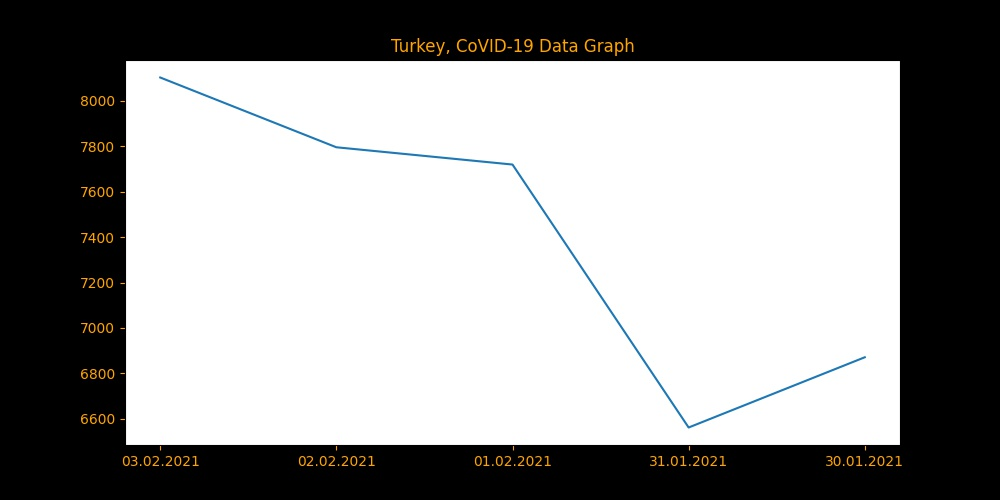
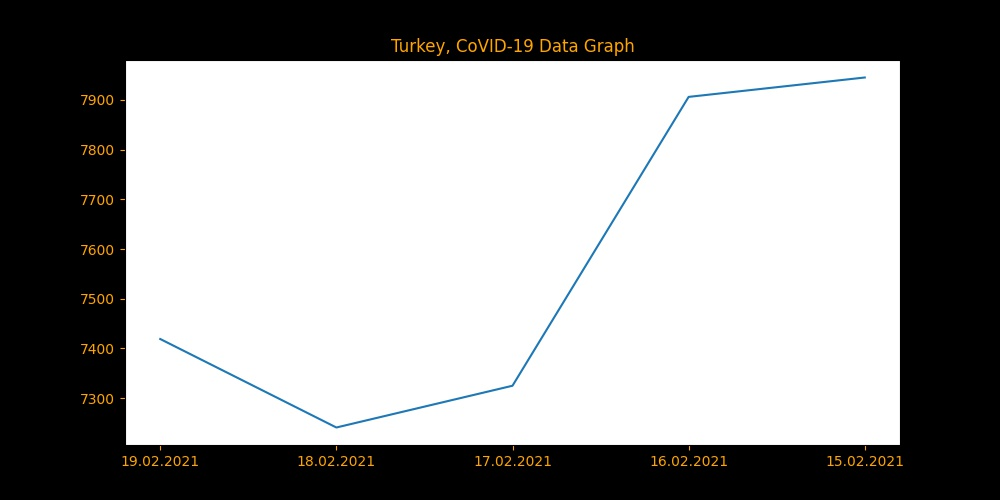
:notebook: 19.02.2021 Update

diff --git a/README_TR.md b/README_TR.md
@@ -11,20 +11,20 @@ Burada, Türkiye'nin [COVID-19 (Koronavirüs) (Hakkında bilgi almak için tıkl
 Not: Bütün veriler, Türkiye Sağlık Bakanlığı'ndan sağlanmaktadır. Eğer veriler güncel değilse, bu büyük ihtimal [devletin web sitesi](https://covid19.saglik.gov.tr) ile alakalıdır. Tamamdır, o zaman başlayalım!
 
 Öncelikle bugünün verileri:
-## :calendar: 03.02.2021 Koronavirüs Verileri:
+## :calendar: 19.02.2021 Koronavirüs Verileri:
 | Veri Tipi         | Bugünün Verileri   | Toplam Veriler     |
 | :---              |    :----           |     :---           |
-| Testler           | 8,102    | 1,255,464    |
-| Hastalar          | 117   | 26,396   |
-| Tedaviler         | 148,192    | 30,169,339    |
-| Vefatlar          | 8,314| 1,291,949|
+| Testler           | 7,419    | 1,377,721    |
+| Hastalar          | 82   | 27,910   |
+| Tedaviler         | 116,674    | 32,174,550    |
+| Vefatlar          | 7,498| 1,415,297|
 
 Not: Doğru "Vaka" sayısı 25.11.2020'den itibaren verilmeye başladığı için toplam veriyi doğru hesaplayamıyoruz...
 
-:clock9: `Son Güncelleme: 04.02.2021 04:46`
+:clock9: `Son Güncelleme: 20.02.2021 17:36`
 \
 \
-Ülkemiz ile alakalı gönderilen verilerde bir gariplik var. Devletin verdiği toplam veriler ile günlük veriler arasında uyuşmazlık mevcut. Eğer her günün verisini birbirine eklersek, Bizim hesaplamamız vakalar için **1245615** tane daha az çıkıyor. Bu, ölümler için **42** , testler için **107902** ve tedavi olanlar için **1095435** . Neden devletimiz böyle bir şey yapıyor anlamıyoruz. YOKSA VERİLER YANLIŞ MI??!?\
+Ülkemiz ile alakalı gönderilen verilerde bir gariplik var. Devletin verdiği toplam veriler ile günlük veriler arasında uyuşmazlık mevcut. Eğer her günün verisini birbirine eklersek, Bizim hesaplamamız vakalar için **1246298** tane daha az çıkıyor. Bu, ölümler için **7** , testler için **76384** ve tedavi olanlar için **1096251** . Neden devletimiz böyle bir şey yapıyor anlamıyoruz. YOKSA VERİLER YANLIŞ MI??!?\
 Neyse tamam, hadi grafikler hakkında konuşalım. Dünle bu günün karşılaştırma grafiği:\
 ![Graph](https://github.com/lysep-corp/COVID-19/blob/master/Graphs/YESTERDAY_COMP_TODAY_TR.jpeg?raw=true)
 

diff --git a/README.md b/README.md
@@ -11,20 +11,20 @@ In this we will gonna show you where is the Turkey going about [COVID-19 Pandemi
 Note: All the data coming from Türk Ministery of Health's public website. If datas are not up-to-date, probably this is about the [goverment's website](https://covid19.saglik.gov.tr) if our server's are not die. Okey, Let's start than!
 
 First today's datas:
-## :calendar: 03.02.2021 Corona virus Datas:
+## :calendar: 19.02.2021 Corona virus Datas:
 | Data Type         | Today's Datas      | All Time Data      |
 | :---              |    :----           |     :---           |
-| Tests             | 148,192    | 30,169,339    |
-| Cases             | 8,102    | 1,255,464    |
-| Cures             | 8,314| 1,291,949|
-| Deaths            | 117   | 26,396   |
+| Tests             | 116,674    | 32,174,550    |
+| Cases             | 7,419    | 1,377,721    |
+| Cures             | 7,498| 1,415,297|
+| Deaths            | 82   | 27,910   |
 
 Note: Correct "Cases" data started on 25.11.2020. So we can't count all time data correctly...
 
-:clock9: `Last Update: 04.02.2021 04:46`
+:clock9: `Last Update: 20.02.2021 17:36`
 \
 \
-There is something weird going on about our country's data. There is a little bit difference about goverment's all time data and daily datas. If we gonna add everyday's data to each other, Our calculation is **1245615** less than the goverment's case calculation. It's **42** for deaths, **107902** for tests and **1095435** for cured person count. We don't know why our country is doing that. ARE THE DATAS WRONG??!?\
+There is something weird going on about our country's data. There is a little bit difference about goverment's all time data and daily datas. If we gonna add everyday's data to each other, Our calculation is **1246298** less than the goverment's case calculation. It's **7** for deaths, **76384** for tests and **1096251** for cured person count. We don't know why our country is doing that. ARE THE DATAS WRONG??!?\
 Okey, let's talk about the graphs. Here is today's data is compare with yesterdays:\
 ![YESTERDAY_COMP_TODAY_EN](https://github.com/lysep-corp/COVID-19/blob/master/Graphs/YESTERDAY_COMP_TODAY_EN.jpeg?raw=true)
 
